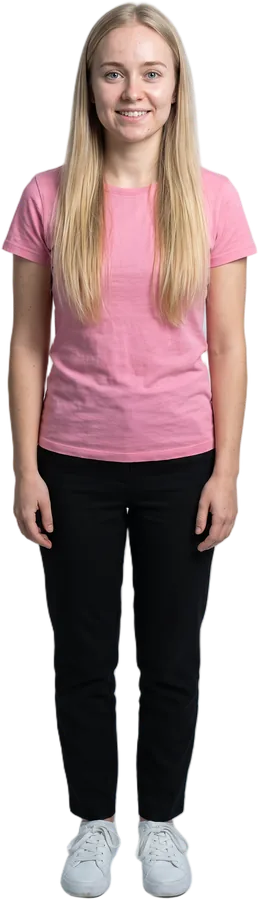
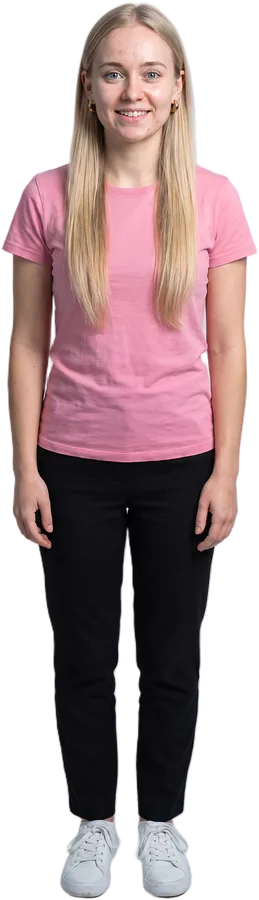
Decrire une personne : les boucles d'oreilles d'Elena se voient (Jacques : « Retoucher les images »)
Ses donnees disent « pendientes », ses cheveux les cachaient. Une retouche fal nano-banana-pro d'Elena.png
(visuel/descripcion/retoucher.py, l'original garde en img/Elena-avant1.png) : les cheveux glisses derriere les
oreilles, deux petits anneaux dores, le reste identique -- les cheveux restent longs devant les epaules (une
premiere retouche les avait passes derriere : refaite, img/Elena-rate1.png). Detourage refait (BiRefNet), puis
web.py, decouverte.py et yeux_personnes.py : seules les quatre images d'Elena changent. 0,30 $ de retouches.

diff --git a/visuel/descripcion/retoucher.py b/visuel/descripcion/retoucher.py
@@ -1,0 +1,63 @@
+# -*- coding: utf-8 -*-
+"""Retouche UNE personne de « Descripcion fisica » sans la refaire. ET C'EST FACTURE : 0,15 $ la retouche, chez fal.
+
+    python visuel/descripcion/retoucher.py Elena            # la retouche de RETOUCHES["Elena"]
+    python visuel/descripcion/retoucher.py Elena --montrer  # le prompt seul, gratuit
+
+L'original est garde a cote (img/<Nom>-avant<k>.png) ; ensuite, le detourage a refaire (supprimer
+img/<Nom>-detoure.png puis detourer.py), web.py, decouverte.py et yeux_personnes.py, qui en derivent.
+
+Elena (3 nov. 2026) : ses donnees disent « pendientes », mais ses cheveux cachaient les boucles d'oreilles.
+Jacques : « Retoucher les images » plutot que retirer le mot.
+"""
+import io, json, os, sys, time
+sys.stdout.reconfigure(encoding="utf-8")
+ICI = os.path.dirname(os.path.abspath(__file__))
+RACINE = os.path.dirname(os.path.dirname(ICI))
+sys.path.insert(0, os.path.join(RACINE, "video"))
+import omnihuman as O                                        # noqa: E402
+
+MODELE, PRIX = "fal-ai/nano-banana-pro/edit", 0.15
+RETOUCHES = {
+    # 1re retouche ratee (img/Elena-rate1.png) : les cheveux etaient partis derriere les epaules, elle n'avait
+    # plus l'air d'avoir les cheveux longs (« largo » dans ses donnees). Seul le haut des cheveux bouge.
+    "Elena": ("Edit this photograph, change only the hair right at her ears: tuck the hair just behind both ears at "
+              "the top, so that both earlobes are clearly visible, and she wears small round gold hoop earrings "
+              "that are clearly visible on both earlobes. Below the ears, the hair stays EXACTLY as it is now: very "
+              "long, straight, blond, falling IN FRONT of both shoulders and down over the chest to the middle of "
+              "the t-shirt, as in the original. Keep everything else exactly the same: the same woman, the same face, the same blue eyes, "
+              "the same smile, the same pink t-shirt, black trousers and white sneakers, the same pose, the same "
+              "framing from head to feet, the same plain light grey studio background and light. Photorealistic, "
+              "no text."),
+}
+DOSSIER = os.path.join(ICI, "img")
+
+
+def main():
+    montrer = "--montrer" in sys.argv
+    noms = [a for a in sys.argv[1:] if not a.startswith("--")]
+    for nom in noms:
+        prompt = RETOUCHES[nom]
+        png = os.path.join(DOSSIER, nom + ".png")
+        print("\n  %s (%.2f $)\n  %s" % (nom, PRIX, prompt))
+        if montrer:
+            continue
+        cle = O.cle()
+        url = O.deposer(png, "image/png", cle)[0]
+        corps = {"prompt": prompt, "image_urls": [url], "aspect_ratio": "9:16", "resolution": "2K",
+                 "output_format": "png", "num_images": 1}
+        soum = O._json("https://queue.fal.run/" + MODELE, cle, corps)
+        res = O.attendre(soum["status_url"], soum["response_url"], cle, bavard=False)
+        k = 1
+        while os.path.exists(os.path.join(DOSSIER, "%s-avant%d.png" % (nom, k))):
+            k += 1
+        os.replace(png, os.path.join(DOSSIER, "%s-avant%d.png" % (nom, k)))
+        O.telecharger(res["images"][0]["url"], png)
+        io.open(os.path.join(DOSSIER, nom + "-retouche-fal.json"), "w", encoding="utf-8").write(json.dumps({
+            "modele": MODELE, "request_id": soum.get("request_id"), "quand": time.strftime("%Y-%m-%dT%H:%M:%S"),
+            "prompt": prompt, "source": "%s-avant%d.png" % (nom, k), "prix": PRIX}, ensure_ascii=False, indent=1))
+        print("  ->", os.path.relpath(png, RACINE), "(%.2f $)" % PRIX)
+
+
+if __name__ == "__main__":
+    main()
